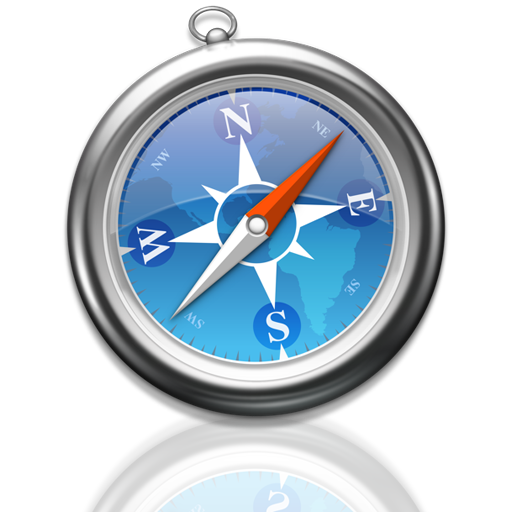
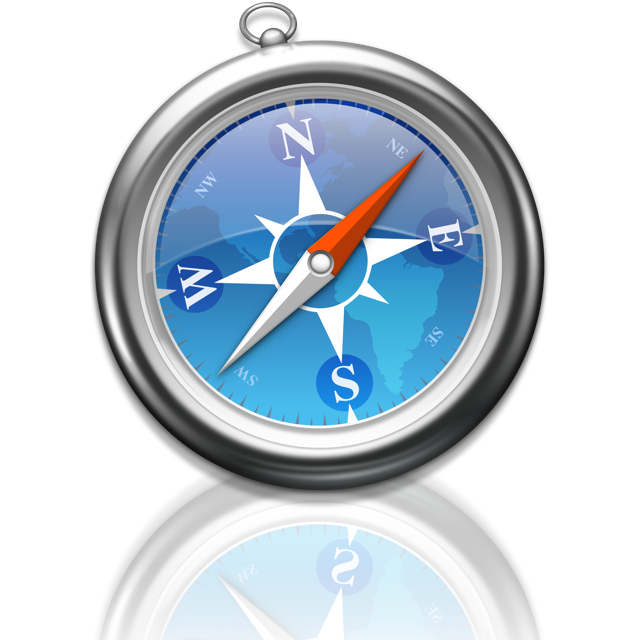
actualización carrito de compras

diff --git a/index.html b/index.html
@@ -60,7 +60,7 @@
 
   <nav class="dock">
     <div class="dock-icon" onclick="openSocialWindow()">
-      <img src="imagenes/safari1.png" alt="Safari" />
+      <img src="imagenes/safari.png" alt="Safari" />
     </div>
     <div class="dock-icon" onclick="openWindow('sets')">
       <img src="imagenes/itunes.png" alt="iTunes" />
@@ -136,6 +136,7 @@
 
     <!-- Vista Detalles del Producto -->
     <div class="merch-detail-container" id="merchDetail" style="display:none;">
+      <img src="imagenes/back.png" alt="Back Icon" class="back-icon" onclick="handleRedButton('merchDetail')" />
       <div class="merch-main-view">
         <img id="mainMerchImage" src="" alt="Vista Principal">
         <h3 id="merchTitle">Titulo</h3>
@@ -197,7 +198,7 @@
       <div class="cart-total">
         Total: $<span id="totalPrice"></span>
       </div>
-      <a href="https://checkout.shopify.com/tu-checkout-link" target="_blank">
+      <a href="#" target="_blank">
         <button class="checkout-btn">CHECKOUT</button>
       </a>
     </div>
@@ -767,14 +768,25 @@ function addToCart() {
 function updateCart() {
   const cartContainer = document.getElementById("cartItems");
   const totalContainer = document.getElementById("totalPrice");
+  const checkoutButton = document.querySelector(".checkout-btn");
+  const checkoutLink = checkoutButton.closest("a");
 
   cartContainer.innerHTML = "";
   let totalPrice = 0;
+
+  // 🟣 Construir link de Shopify Cart
+  const shopifyBase = "https://1u4xh0-g9.myshopify.com/cart/";
+  const cartShopifyItems = [];
 
   cart.forEach((item, index) => {
     const numericPrice = parseInt(item.price.replace("$", "").replace("CLP", "").replace(/\./g, "").trim());
     const itemTotal = numericPrice * item.quantity;
     totalPrice += itemTotal;
+
+    const shopifyId = getShopifyProductID(item.title, item.size);
+    if (shopifyId) {
+      cartShopifyItems.push(`${shopifyId}:${item.quantity}`);
+    }
 
     const cartItem = document.createElement("div");
     cartItem.classList.add("cart-item");
@@ -793,6 +805,32 @@ function updateCart() {
   });
 
   totalContainer.textContent = formatCLP(totalPrice);
+
+  // Actualizar el link del botón de Checkout
+  if (cartShopifyItems.length > 0) {
+    checkoutLink.href = shopifyBase + cartShopifyItems.join(",");
+  } else {
+    checkoutLink.href = "#";
+  }
+}
+
+function getShopifyProductID(title, size) {
+  const variants = {
+    "Lindsay Lohan White Tee": {
+      S: "46381412647165",
+      M: "46381412679933",
+      L: "46381412712701",
+      XL: "46381412745469"
+    },
+    "Lindsay Lohan Black Tee": {
+      S: "46381471990013",
+      M: "46381472022781",
+      L: "46381472055549",
+      XL: "46381472088317"
+    }
+  };
+
+  return variants[title]?.[size] || null;
 }
 
 

diff --git a/styles.css b/styles.css
@@ -67,7 +67,7 @@ body {
 /* Dock en sí mismo */
 .dock {
   display: flex;
-  gap: 20px;
+  gap: 15px;
   padding: 10px 20px;
   position: relative;
   z-index: 1;
@@ -84,7 +84,7 @@ body {
 
 /* Imagen de ícono */
 .dock-icon img {
-  width: 60px;
+  width: 80px;
   transition: transform 0.3s ease;
 }
 
@@ -932,6 +932,19 @@ width: 700px;
   top: 45px;
   right: 20px;
   width: 30px;
+  height: 30px;
+  cursor: pointer;
+  filter: brightness(0) invert(1); /* lo deja blanco si es PNG negro */
+  opacity: 0.8;
+  transition: transform 0.2s ease, opacity 0.2s ease;
+  z-index: 10;
+}
+
+.back-icon {
+  position: absolute;
+  top: 45px;
+  width: 30px;
+  left: 20px;
   height: 30px;
   cursor: pointer;
   filter: brightness(0) invert(1); /* lo deja blanco si es PNG negro */
